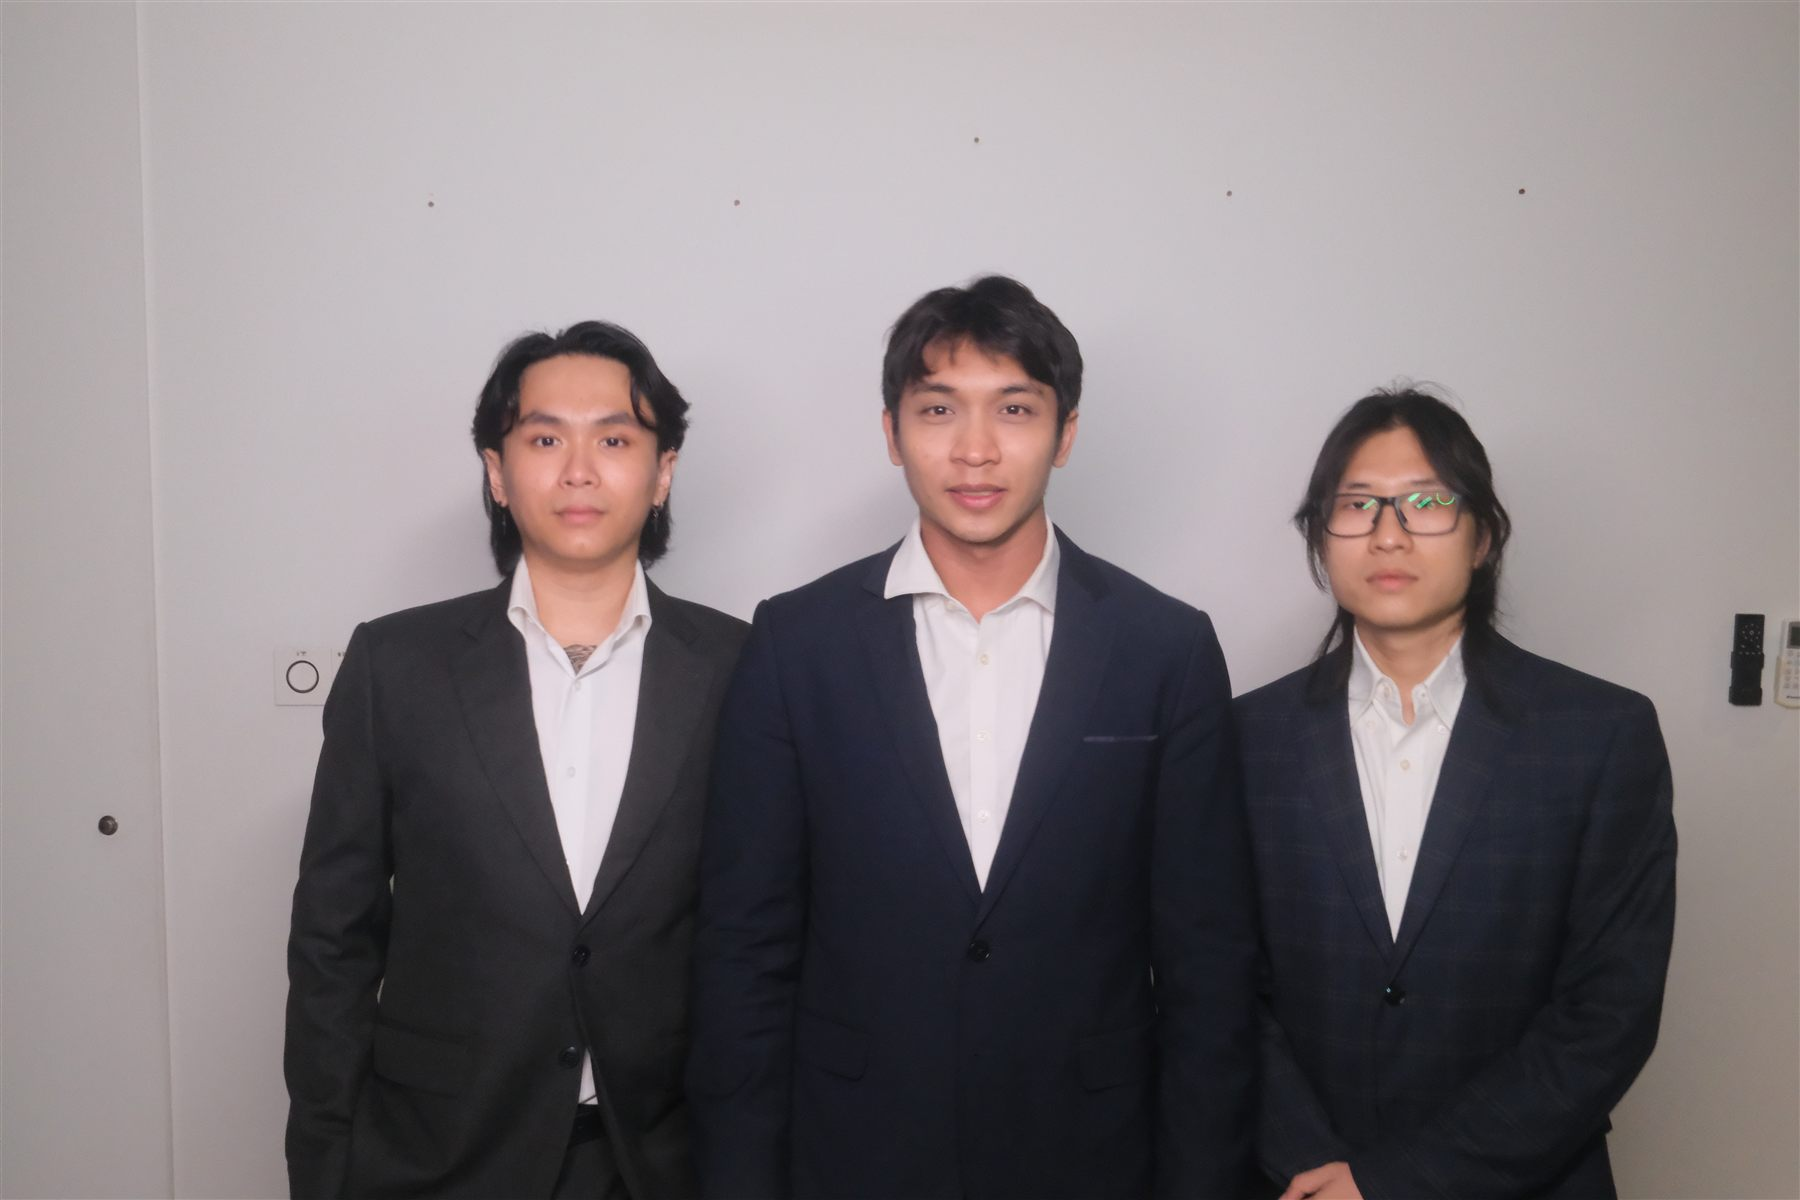
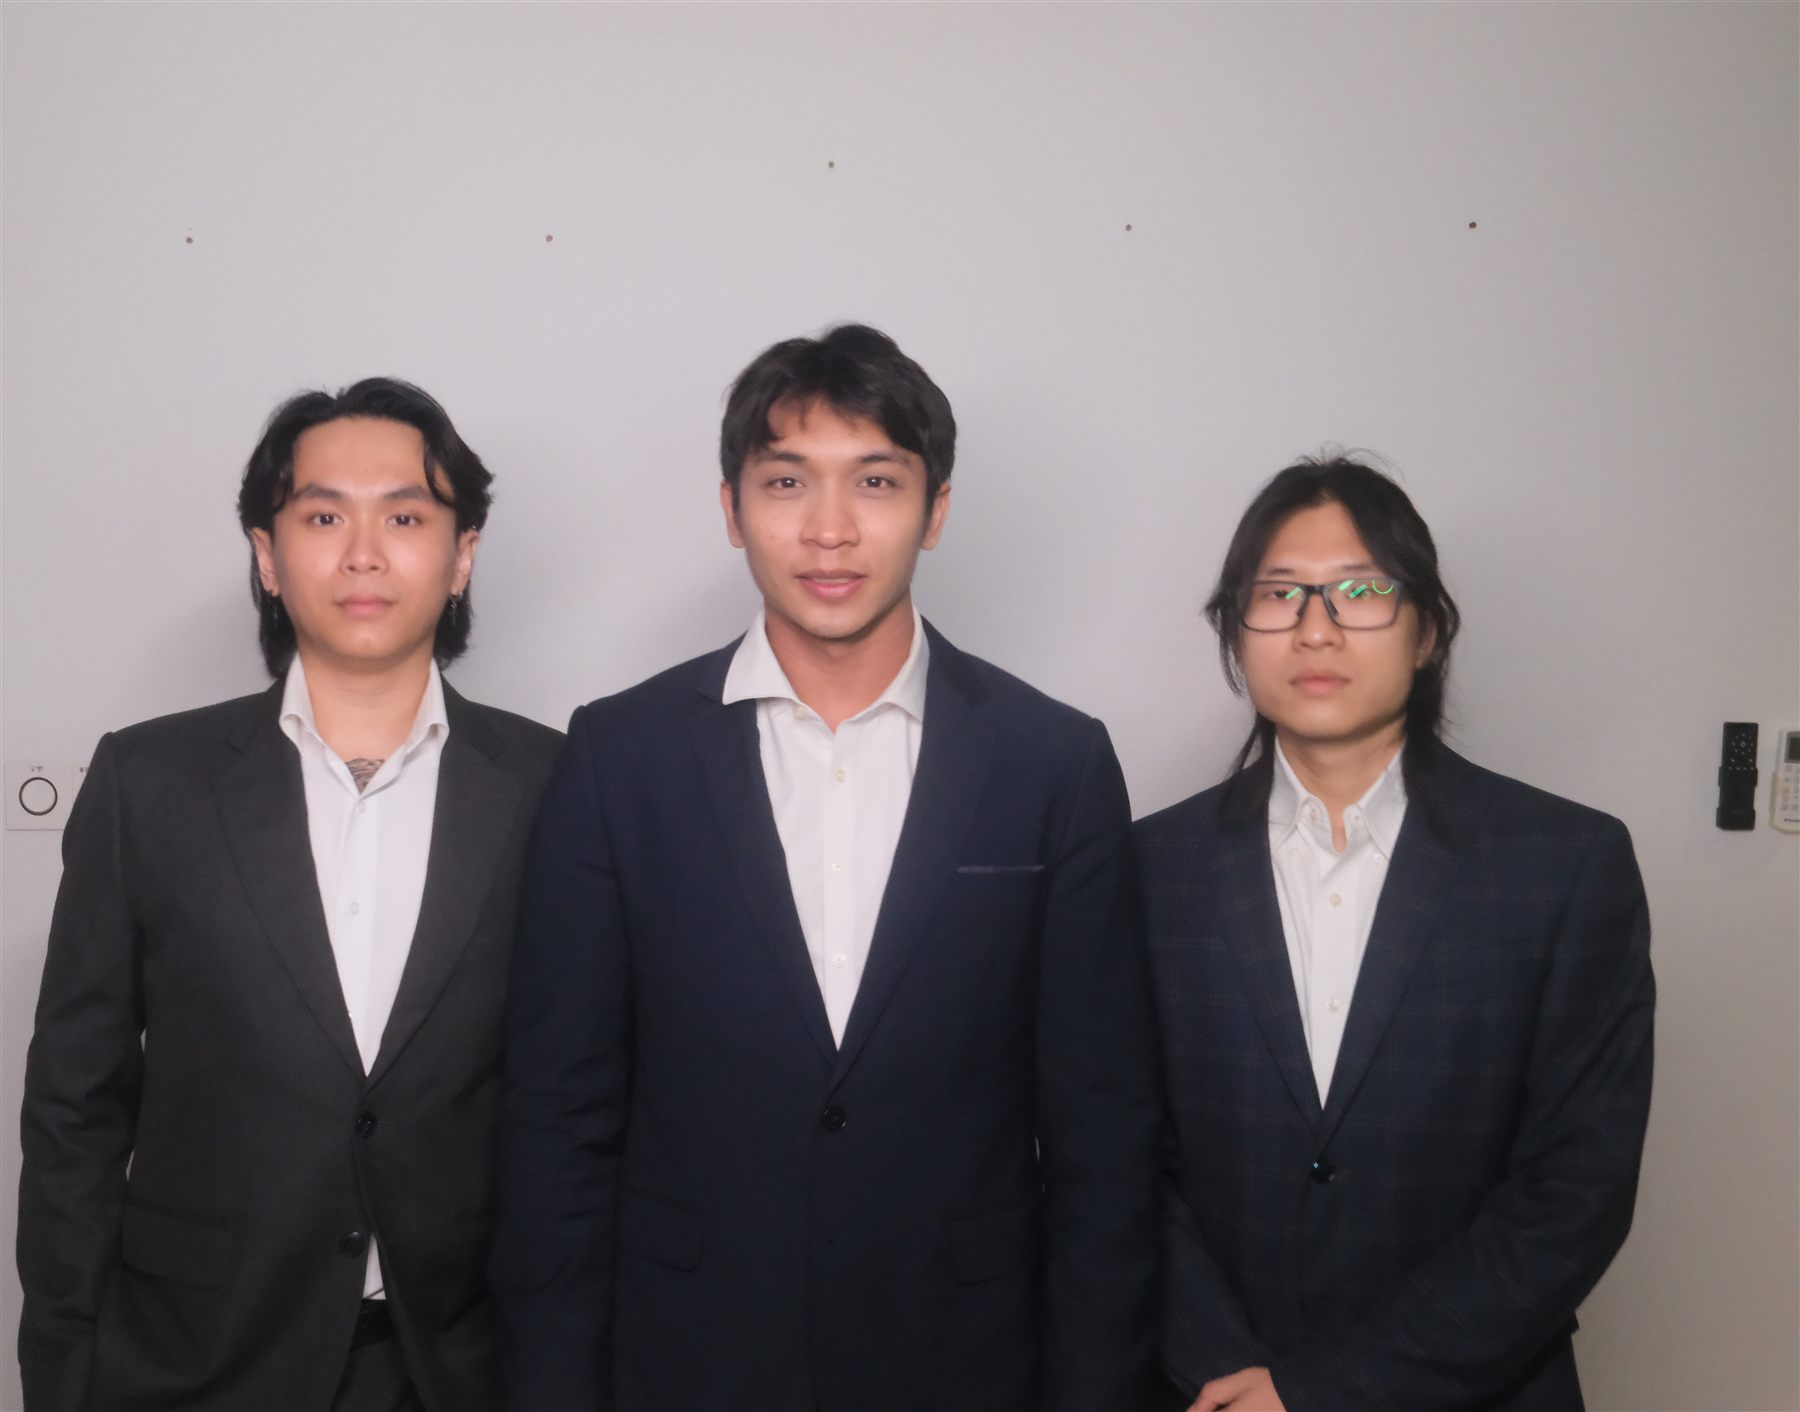
Re-crop team photo 15% off the left edge to actually shift subjects left
background-position X was maxed at 100% with zero visible effect, because this section is width-bound (image always fills full width edge-to-edge, no horizontal slack to pan within). Cropping 15% off the left of the source photo (from the original DSCF1257.JPG) genuinely shifts the subjects leftward in the display, which CSS position alone couldn't do. Reset background-position to center 32% as the new baseline.

diff --git a/assets/css/main.css b/assets/css/main.css
@@ -270,7 +270,7 @@ html.dark .hero-photo-section.photo-force::before, html.dark .hero-photo-section
 }
 .cta-photo-section::before {
   content: ''; position: absolute; inset: 0; z-index: 0;
-  background-image: url('../img/team-three-suits.jpg'); background-size: cover; background-position: 100% 32%;
+  background-image: url('../img/team-three-suits.jpg'); background-size: cover; background-position: center 32%;
 }
 .cta-photo-section::after {
   content: ''; position: absolute; inset: 0; z-index: 1;
